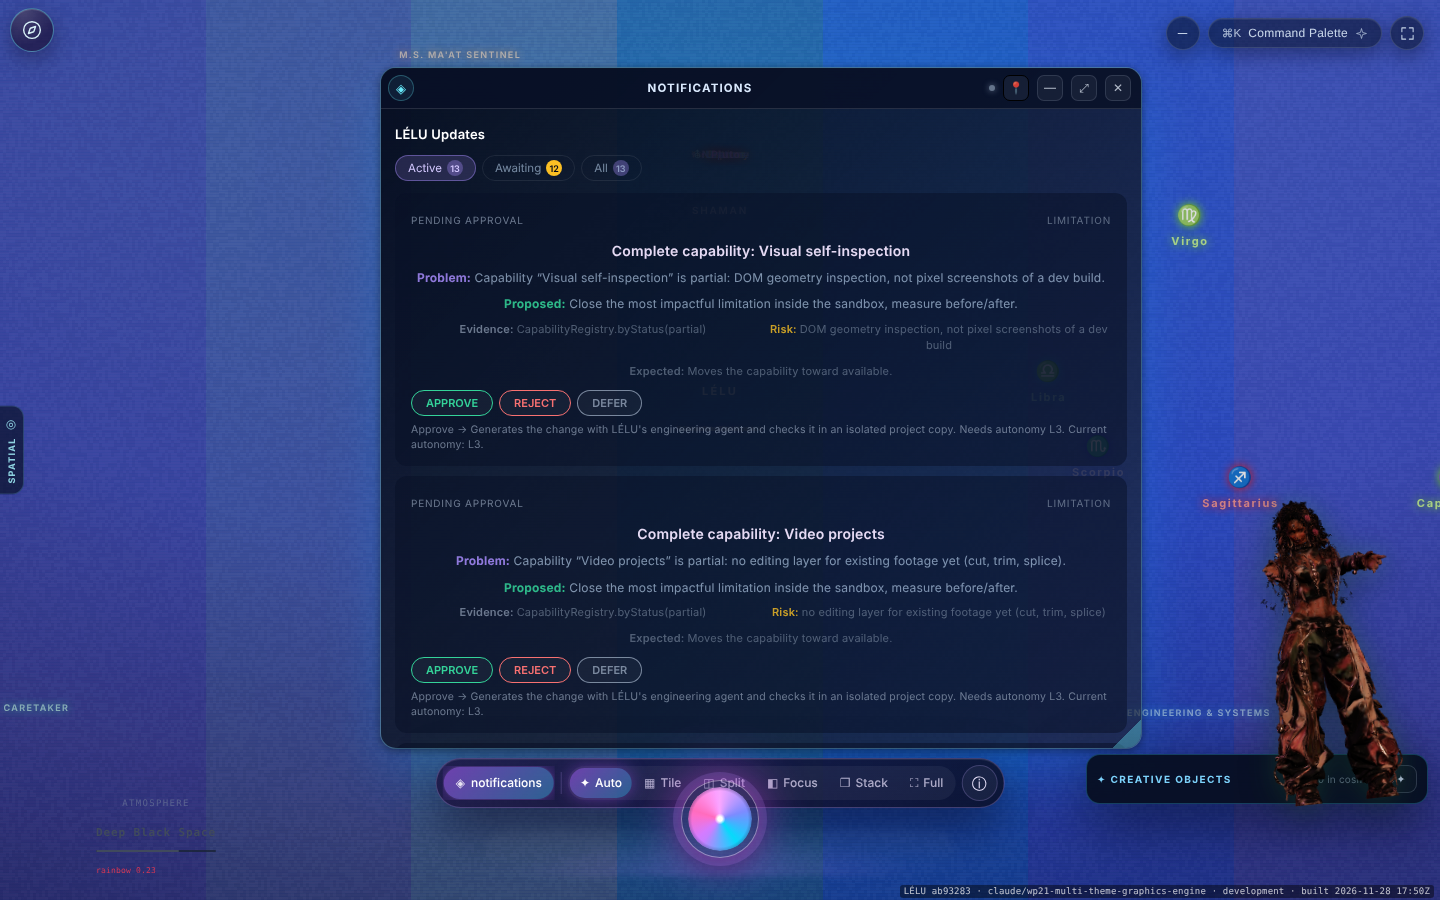
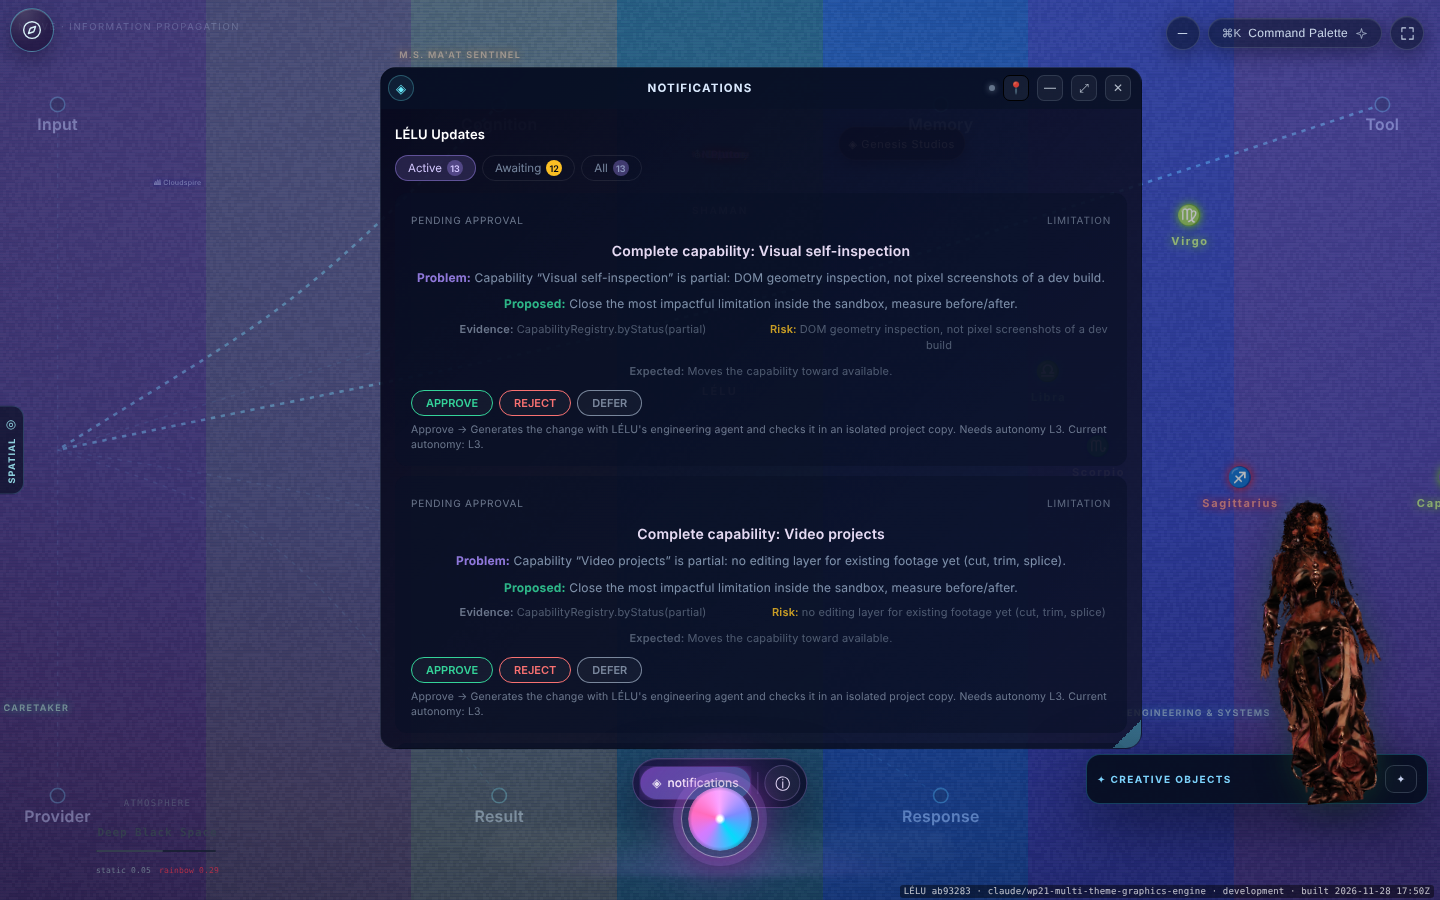
Unified mode: app windows (Notifications etc.) borderless in the Cosmos, old layout bar gone; OG keeps them
In Unified Cosmos Chat, module windows lose their frame and outline and the Cosmos shows through; the old
Auto/Tile/Split/Focus/Stack/Full window-layout bar is hidden (the dial and workspace formats arrange things
now). OG mode (<html data-lelu-experience=og>) keeps the original boxed windows and the bar.

Claude-Session: https://claude.ai/code/session_017r5V6N97c4ksPFc1eZj1j6

diff --git a/src/app/scene/genesis/performance.css b/src/app/scene/genesis/performance.css
@@ -13,3 +13,15 @@ html[data-lelu-weight="light"] *::after {
 /* OG experience: the way back to Unified Cosmos Chat, always on screen (WP21.4). */
 .og-back { position: fixed; bottom: calc(96px + env(safe-area-inset-bottom)); left: 14px; /* clear of every header (it covered the Chat Universe title: measured) */ z-index: 600; pointer-events: auto; font: 600 12px Inter, system-ui, sans-serif; color: #fff; background: rgba(124, 58, 237, .85); border: 0; border-radius: 999px; padding: 8px 14px; cursor: pointer; box-shadow: 0 6px 20px rgba(0,0,0,.35); }
 @media (pointer: coarse) { .og-back { min-height: 44px; } }
+
+/* Unified Cosmos Chat (not OG): app windows such as Notifications float in the Cosmos borderless and
+   see-through, and the old window-layout bar (Auto / Tile / Split / Focus / Stack / Full) steps aside: the
+   dial and the workspace formats arrange things now. OG keeps the original boxed windows and the bar. */
+html:not([data-lelu-experience="og"]) [data-lelu-module-window] .genesis-window-frame {
+  border-color: transparent !important; box-shadow: none !important;
+  background: rgba(10, 4, 30, 0.42) !important; backdrop-filter: blur(6px); -webkit-backdrop-filter: blur(6px);
+}
+html:not([data-lelu-experience="og"]) [data-lelu-module-window] .genesis-window-frame * { border-color: transparent; }
+html:not([data-lelu-experience="og"]) .lws-modes { display: none !important; }
+html:not([data-lelu-experience="og"]) [data-lelu-module-window],
+html:not([data-lelu-experience="og"]) [data-lelu-module-window] > * { border-color: transparent !important; outline: none !important; box-shadow: none !important; }

diff --git a/src/app/scene/genesis/GenesisInterface.tsx b/src/app/scene/genesis/GenesisInterface.tsx
@@ -1114,6 +1114,7 @@ function ExperienceLanding() {
   const mode = useSyncExternalStore(subscribeExperience, currentExperience, currentExperience);
   useEffect(() => {
     HomeStoreForExperience.setImmersive(mode !== "og");
+    document.documentElement.dataset.leluExperience = mode;
   }, [mode]);
   // In OG, the way back is always one tap away.
   return mode === "og" ? (
